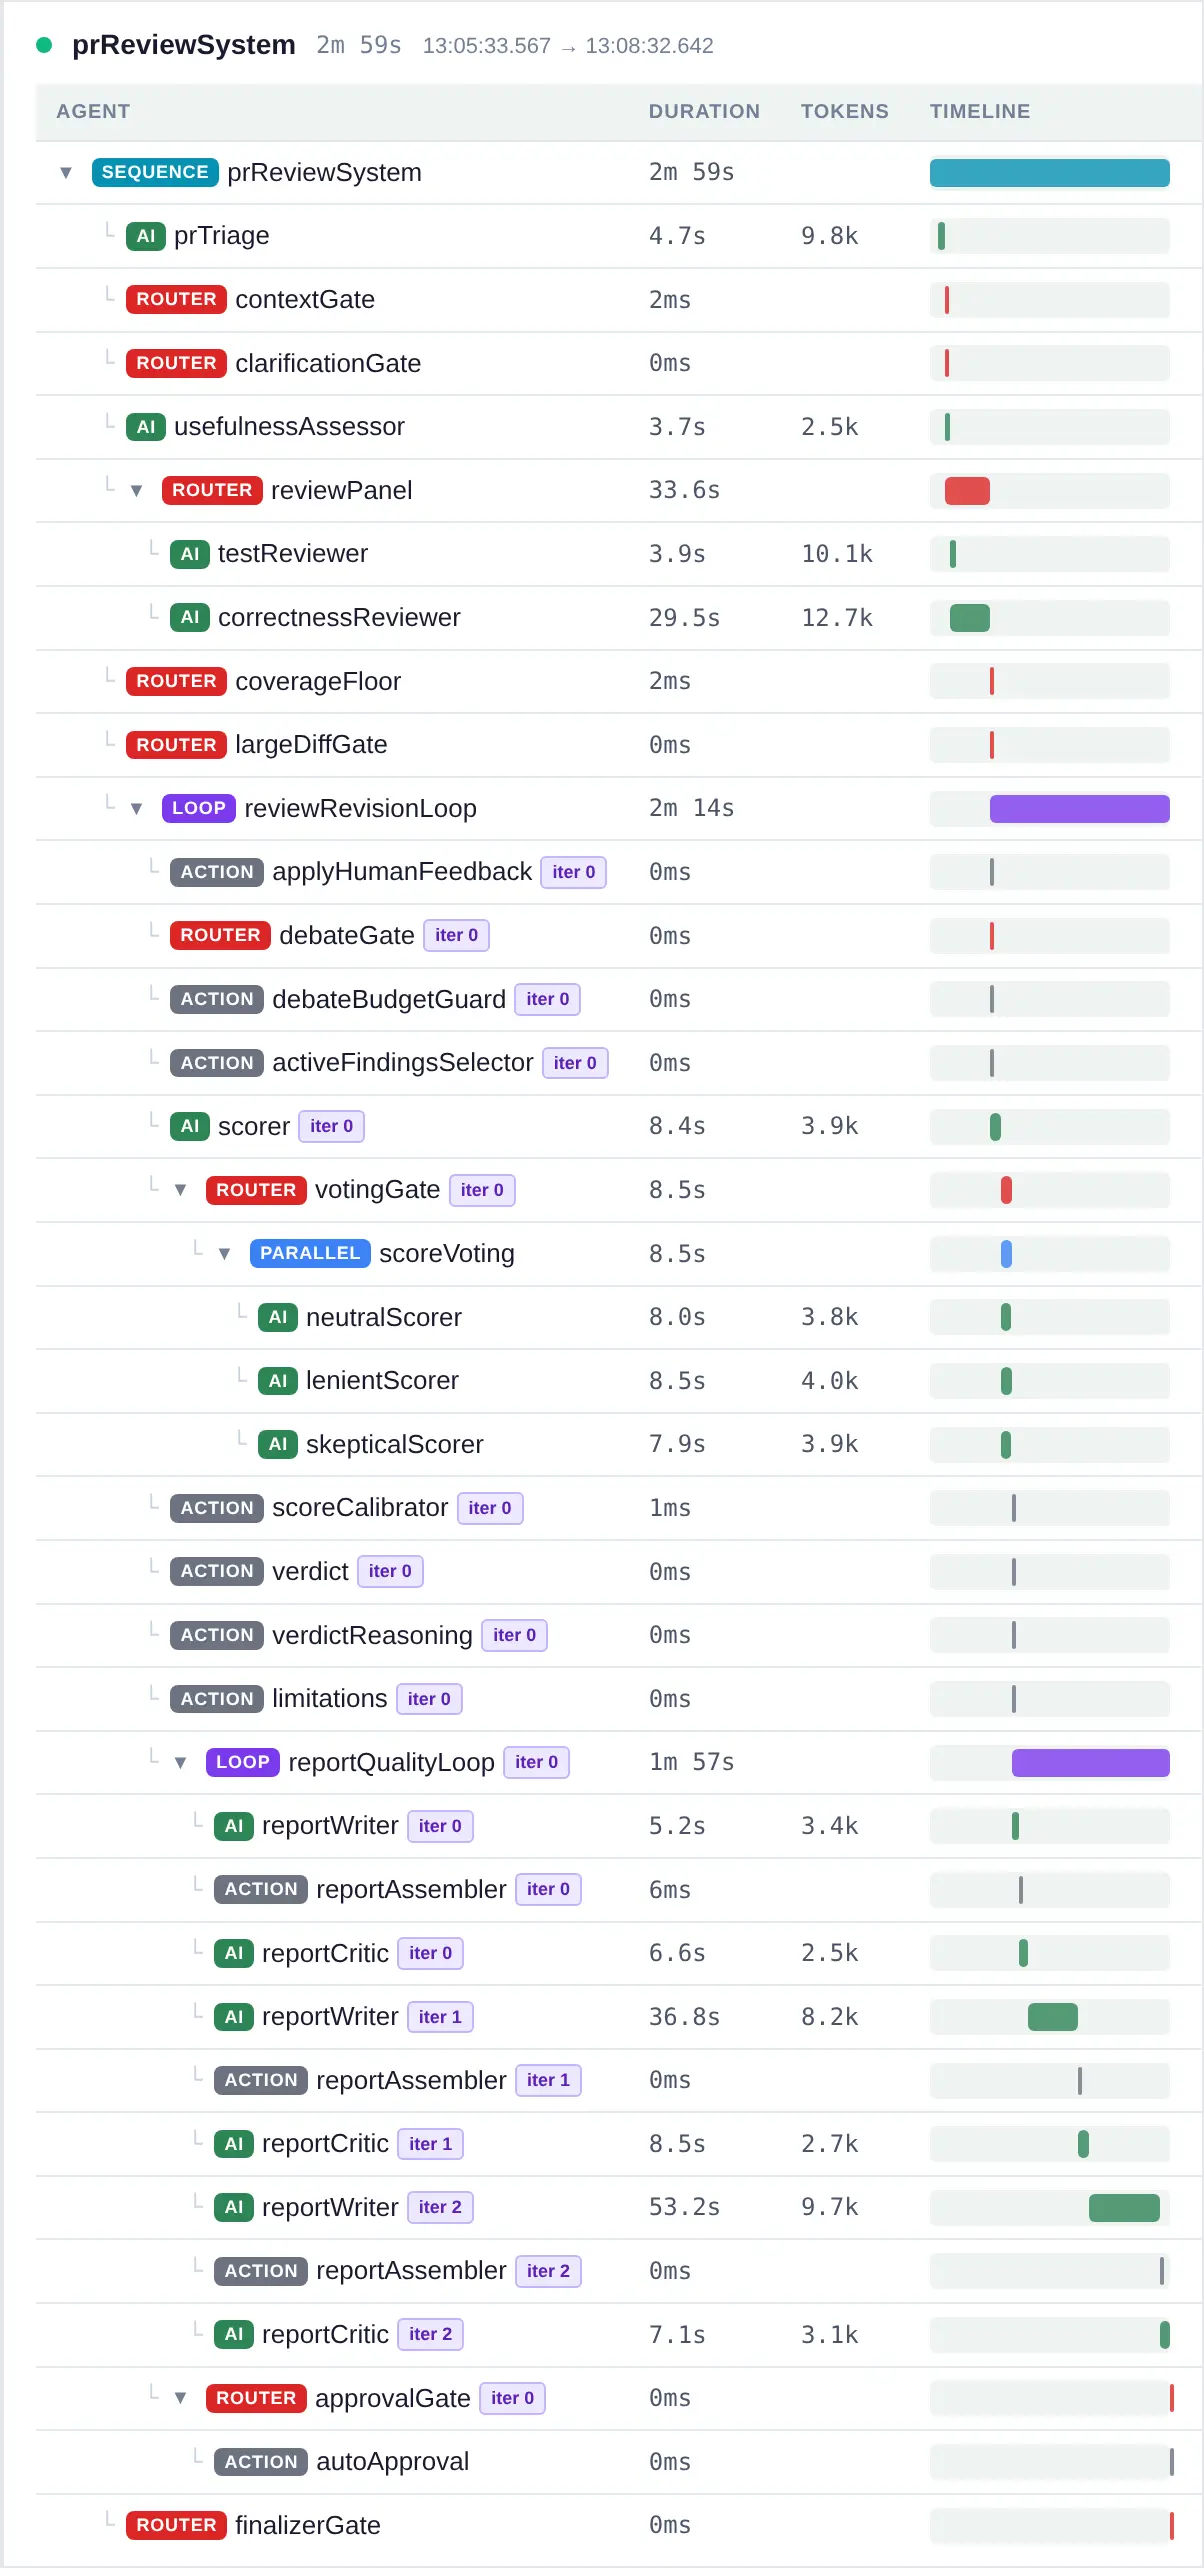
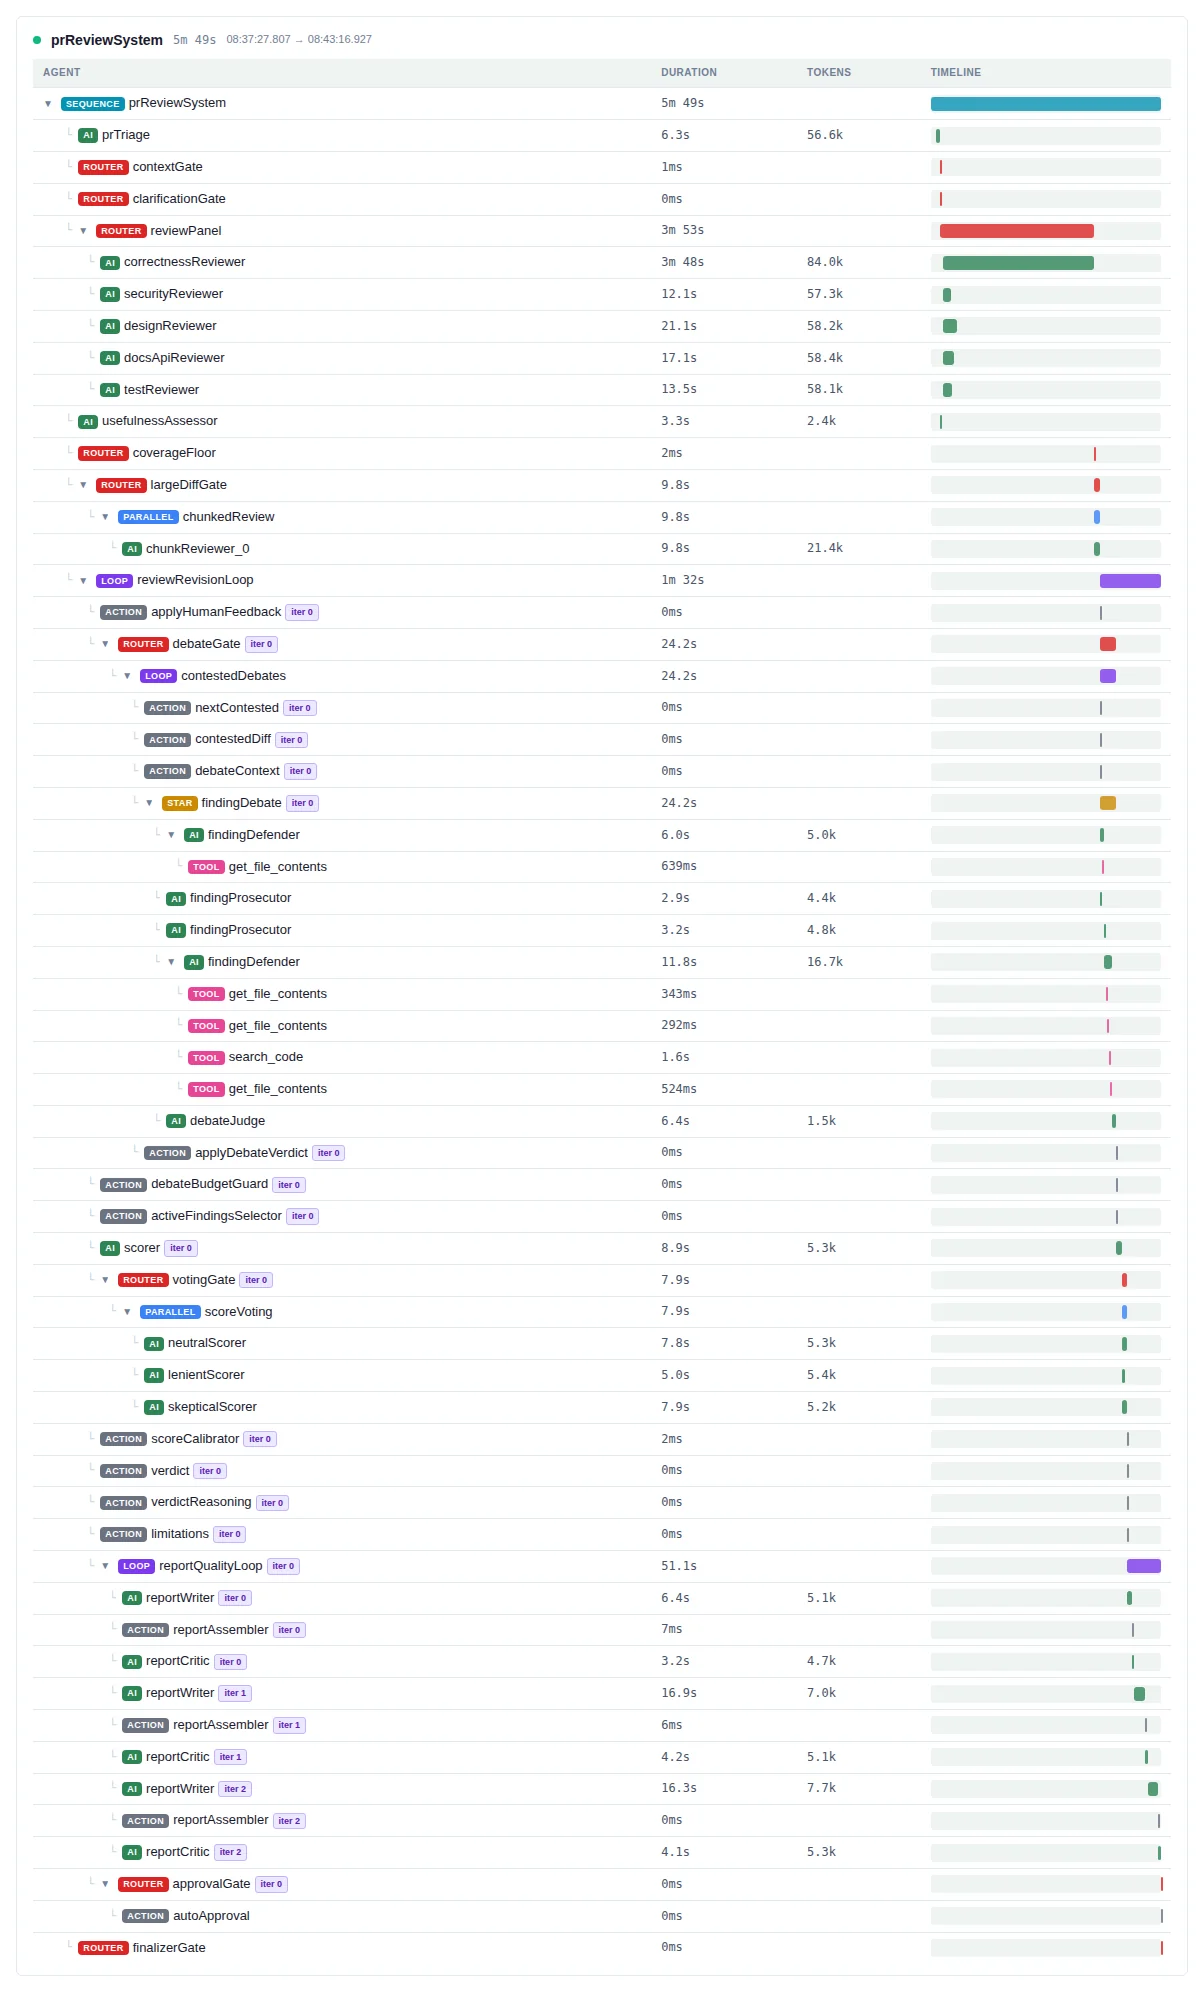
update blog post

diff --git a/docs/blog/agentic-pr-reviewer.md b/docs/blog/agentic-pr-reviewer.md
@@ -393,21 +393,25 @@ The application is packaged as an uber-jar and installed as a JBang alias, so th
 
 The `serve` subcommand starts a local web interface built with Qute templates and htmx, with no JavaScript build at all: a form with the same options of the command line, the past reports, and a page following each review live. An `AgentListener` bean, which the extension attaches to every agent, publishes the start and the end of each agent, with its model, its duration and the running cost of the review, and the page receives them as server-sent events. In interactive mode, the same page shows the clarification questions first, and then the report with a checkbox to contest and one to drop each finding.
 
-![A review rendered by the web interface](/assets/images/posts/agentic/pr-reviewer-web-report.webp)
+## Seeing it at work
+
+Let's try the reviewer on a real pull request, [langchain4j#6731](https://github.com/langchain4j/langchain4j/pull/6731), one of ours, which allows any agent or agentic pattern to declare its own activation condition, so that a single agent no longer needs to be wrapped in a `@ConditionalAgent`, as the context gatherer above is. The report produced by the reviewer for this pull request is the following.
+
+![A review rendered by the web interface](/assets/images/posts/agentic/pr-reviewer-web-report.png)
 
 *A review rendered by the web interface*
 
-## Seeing it at work
+It is a large change, about 2900 added and 300 deleted lines across 56 files, and we reviewed it using the OpenAI models and the small local decision model for the routing. Making `PrReviewSystem` extend `MonitoredAgent` allows us to save the trace of every review in an HTML page, which shows the topology of the system and the history of its executions:
 
-Let's try the reviewer on a real pull request, [langchain4j#6600](https://github.com/langchain4j/langchain4j/pull/6600), a fix to the JSON extractor output guardrail adding about 300 lines across 9 files, using the OpenAI models and the small local decision model for the routing. Making `PrReviewSystem` extend `MonitoredAgent` allows us to save the trace of every review in an HTML page, which shows the topology of the system and the history of its executions:
+![The execution of the review of langchain4j#6731](/assets/images/posts/agentic/pr-reviewer-execution.webp)
 
-![The execution of the review of langchain4j#6600](/assets/images/posts/agentic/pr-reviewer-execution.webp)
+*The execution of the review of langchain4j#6731*
 
-*The execution of the review of langchain4j#6600*
+This execution shows almost all the patterns we discussed at work. The triage classified the change as a large, high-risk feature that could be understood from the diff alone, so the context gatherer was skipped. The decision router selected all five reviewers, which ran in parallel, leaving nothing for the coverage floor to add; the correctness reviewer, escalated to the large model by the risk and the size of the change, took 3 minutes and 48 seconds, two thirds of the whole review, to report no finding at all. Seven files didn't fit in the token budget of the reviewers, five test classes, the documentation and the Revapi configuration, so the large diff gate handed them, as a single chunk, to a chunk reviewer.
 
-This execution shows most of the patterns we discussed at work. The decision router selected only the correctness and the test reviewers, which ran in parallel; the change didn't touch security-sensitive code, nor was it documentation only, so the coverage floor had nothing to add. No finding was contested, so there was no debate. The first score card was borderline, so the three scorers voted in parallel. Then the critic rated the first report 0.77, below the 0.85 required in the first round, and the second one 0.65, so the writer, escalated to the large model, rewrote it twice before the third version passed. The whole review took 3 minutes and cost $0.13.
+The reviewers returned seven findings, all pointing at a valid location of the diff. One of them was contested: the documentation and API reviewer, running on the small model, reported as high severity, but with a confidence of 0.65, that adding a `skipped` component to the `AgentInvocation` record breaks binary compatibility. The prosecutor and the defender argued for the full two rounds, the defender reading the record and searching its usages in the repository, and the judge rejected the finding: the five-argument constructor is kept as an explicit overload, with the same JVM descriptor as the former canonical constructor, so the existing compiled callers still link. Meanwhile, a real compatibility problem survived among the medium-severity findings, and it came from the chunk reviewer: the Revapi configuration suppresses the warning about the abstract `activationCondition` methods added to the public `AgenticService` and `SupervisorAgentService` interfaces, which breaks the source compatibility of anybody implementing them, while the description of the pull request claims that there is no breaking change.
 
-The verdict was `REQUEST_CHANGES`, with an overall score of 7.7 and a confidence of 0.5, on the strength of a medium correctness finding about how the executor composes the results of chained guardrails. A newer result that was explicitly set to `null` cannot replace an older non-null one, because the code merges them with `Optional.ofNullable(newResult.successfulResult()).orElseGet(oldResult::successfulResult)`, so stale data from an earlier guardrail could reach the caller.
+The first score card was borderline on two counts: an overall score of 6.8, within half a point of the approval threshold, and a request for changes without any high-severity finding left to back it. The three scorers then voted in parallel, all three for `REQUEST_CHANGES`, and the average of their cards was again 6.8, with a confidence of 0.5; the calibrator had nothing to correct. Finally, the report went through all the three rounds of the reflection loop: the critic rated the first draft 0.68, so the writer, escalated to the large model, rewrote it twice, but the critic rated the second draft 0.68 again and the third 0.28, and the loop stopped at its last iteration. Here the critic, on the small model, was the weak link of the review: it listed the findings themselves as the issues to fix, as if it had been asked to review the pull request rather than the report about it. The whole review took 5 minutes and 49 seconds and cost $0.45.
 
 ## Conclusion
 
